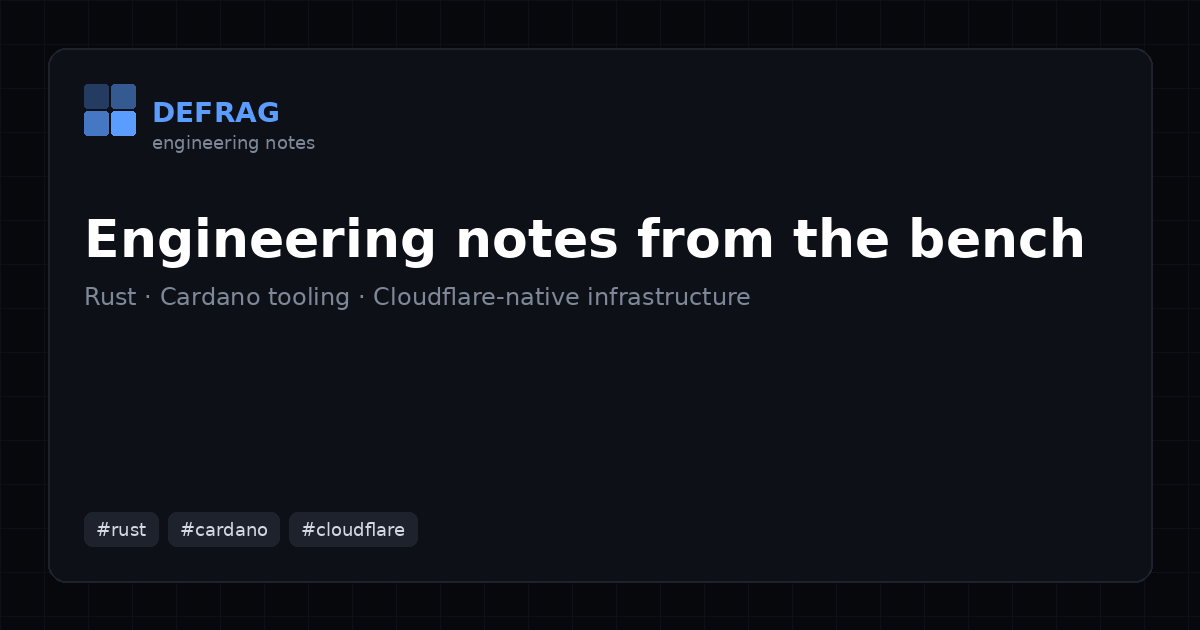
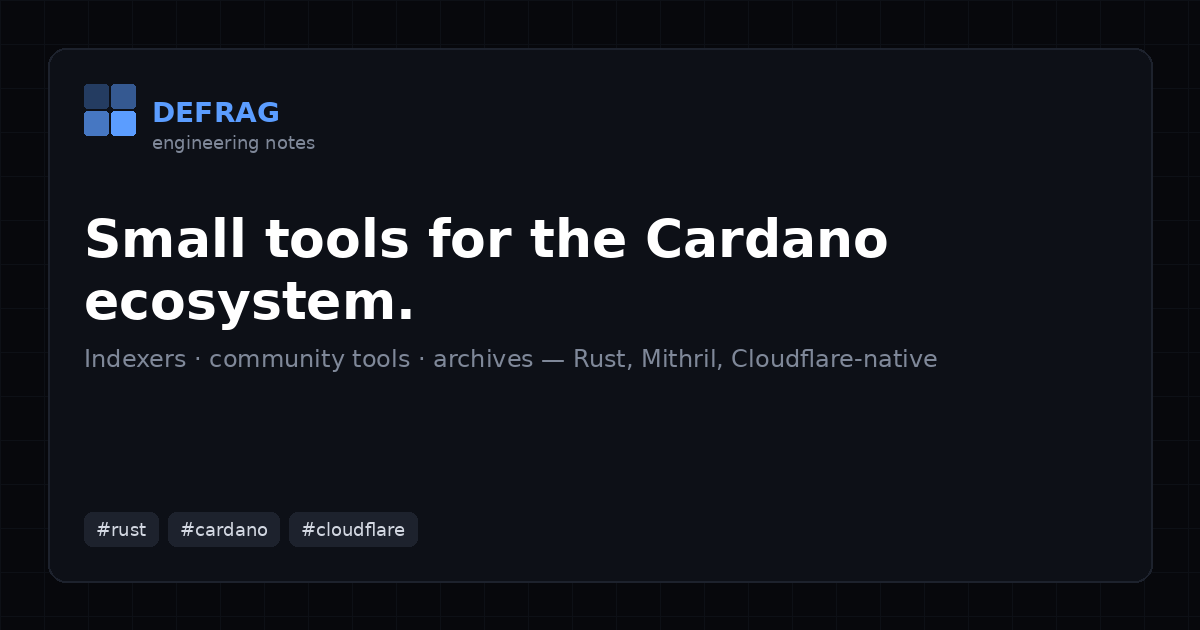
Tighten home hero copy
Shorter headline, tagline, and pillar blurbs; align default OG card.

diff --git a/scripts/generate-og-cards.py b/scripts/generate-og-cards.py
@@ -178,8 +178,8 @@ def main() -> int:
     OUT.mkdir(parents=True, exist_ok=True)
     # Default / home card
     paint_card(
-        "Engineering notes from the bench",
-        "Rust · Cardano tooling · Cloudflare-native infrastructure",
+        "Small tools for the Cardano ecosystem.",
+        "Indexers · community tools · archives — Rust, Mithril, Cloudflare-native",
         ["rust", "cardano", "cloudflare"],
     ).save(OUT / "default.png", optimize=True)
     print(f"wrote {OUT / 'default.png'}")

diff --git a/content/_index.md b/content/_index.md
@@ -6,20 +6,20 @@ template = "index.html"
 
 [extra]
 kicker = "Cardano · Rust · Cloudflare"
-headline = "Notes from a small skunkworks for the Cardano ecosystem."
-tagline = "Defrag builds the unglamorous parts — indexers, community tools, archives, and the worker plumbing behind them. This blog is where those benches get written up: Rust at the edge, Mithril-backed data paths, and Cloudflare-native deploys."
+headline = "Small tools for the Cardano ecosystem."
+tagline = "Unglamorous parts — indexers, community tools, archives, worker plumbing. Written up here: Rust at the edge, Mithril-backed data, Cloudflare-native."
 empty_title = "The feed is quiet — the bench is not"
 empty_body = "No notes are published yet. Drafts stay local until they’re ready; when they ship, they’ll land here with tags, feeds, and share cards. Until then this page is the lab door, not an empty inbox."
 
 [[extra.pillars]]
 title = "Community tooling"
-body = "Discord apps, holder tools, marketplaces and explorers — the surfaces Cardano communities actually use, built to run cheap and stay up."
+body = "Discord apps, holder tools, explorers — cheap to run, built to stay up."
 
 [[extra.pillars]]
 title = "Infrastructure"
-body = "Indexers, data services and Worker/R2 plumbing: turning public chain data into something an app can rely on, without a fat always-on box."
+body = "Indexers and Worker/R2 plumbing that turn chain data into something an app can trust."
 
 [[extra.pillars]]
 title = "Preservation"
-body = "Mirrors, archives and block stores, so collection data and public records outlive the services that happened to produce them."
+body = "Mirrors and archives so public records outlive the services that produced them."
 +++
